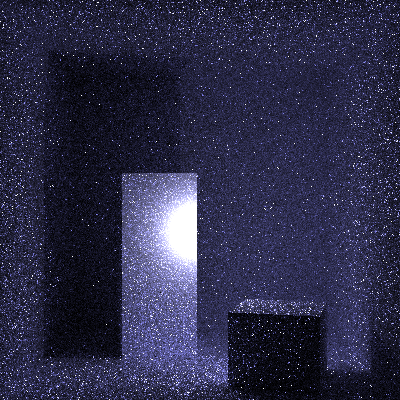
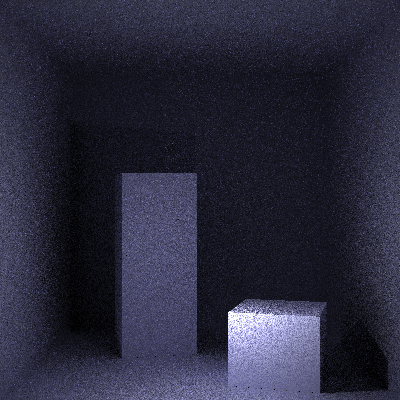
fix path tracing & diffuse brdf conserves energy

diff --git a/src/engine/integrator.rs b/src/engine/integrator.rs
@@ -55,118 +55,170 @@ pub struct PathTracerIntegrator {
     pub number_samples: u32
 }
 
-fn shade_path(path: &Path, scene: &Scene, max_bounces: u32) -> Color3 {
-    if path.intersections.is_empty() { return Color3::zero() }
+///returns true if the path will be completely dark using unidirectional path tracing
+fn unidirectional_path_has_no_light(path: &Path, scene: &Scene) -> bool {
+    if path.intersections.is_empty() || path.light_sample.is_none() { return true }
+    let last_intersection: &PathIntersection = path.intersections.last().as_ref().unwrap();
+    let light_sample: &LightSample = path.light_sample.as_ref().unwrap();
+    let light_intersected = scene
+        .intersect_for_obstruction(last_intersection.position, light_sample.position)
+        .intersected();
+    light_intersected
+}
 
-    let light_sample = &path.light_sample;
+fn shade_path(path: &Path, scene: &Scene, max_bounces: u32) -> Color3 {
+    if unidirectional_path_has_no_light(path, scene) { return Color3::zero() }
+
     let mut accumulated_light = Color3::new(1., 1., 1.);
-    let mut sum_of_samples = Color3::zero();
+    let light_sample: &LightSample = path.light_sample.as_ref().unwrap();
 
     let mut previous_position = path.start_position;
     for i_intersection in 0..path.intersections.len() {
-        let intersection = &path.intersections[i_intersection];
-        let outgoing_direction = (previous_position - intersection.position).unit();
+        let intersection: &PathIntersection = &path.intersections[i_intersection];
+        let next_position: &Vec3 = if i_intersection == path.intersections.len() - 1 {
+            &light_sample.position
+        } else {
+            &path.intersections[i_intersection + 1].position
+        };
 
-        //branch that samples from the light
-        if let &Some(ref light) = light_sample {
-            let light_intersection = scene.intersect_for_obstruction(
-                intersection.position,
-                light.position);
-            if !light_intersection.intersected() {
-                let light_vector = light.position - intersection.position;
-                let light_distance = light_vector.magnitude();
-                let incoming_direction = light_vector.unit();
-                let incoming_intensity = light.intensity / light_distance.powi(2);
-                let brdf_cos_term = intersection.shader.brdf_cosine_term(
-                    &intersection.normal.unit(), &outgoing_direction, &incoming_direction);
-                let probability_of_incoming_direction_inverse = 1.0 /
-                    intersection.shader.probability_of_sample(
-                        &intersection.normal.unit(), &incoming_direction, &outgoing_direction);
-                sum_of_samples += accumulated_light
-                    .mul_element_wise(brdf_cos_term)
-                    .mul_element_wise(incoming_intensity) / light.sample_probability *
-                    probability_of_incoming_direction_inverse;
-            }
-        }
+        let light_directions = LightDirectionPair {
+            outgoing: &(previous_position - intersection.position).unit(),
+            incoming: &(next_position - intersection.position).unit()
+        };
 
-        //if there is another after this one, acculumate the color for this intersection
-        if let Some(next_intersection) = path.intersections.get(i_intersection + 1) {
-            let incoming_vector = next_intersection.position - intersection.position;
-            let incoming_direction = incoming_vector.unit();
-            let brdf_cos_term = intersection.shader.brdf_cosine_term(
-                &intersection.normal.unit(), &outgoing_direction, &incoming_direction);
+        let brdf_cos_term = intersection.shader.brdf_cosine_term(
+            &intersection.normal.unit(), &light_directions
+        );
 
-            let probability_of_incoming_direction_inverse = 1.0 /
-                intersection.shader.probability_of_sample(
-                    &intersection.normal.unit(), &incoming_direction, &outgoing_direction);
+        let probability_of_incoming_sample = intersection.shader.probability_of_sample(
+            &intersection.normal.unit(), &light_directions
+        );
 
-            let attenuation = 1.; // incoming_vector.magnitude().powi(2);
-            accumulated_light.mul_assign_element_wise(
-                brdf_cos_term.mul_element_wise(attenuation) *
-                    probability_of_incoming_direction_inverse
-            );
-        }
+        accumulated_light.mul_assign_element_wise(
+            brdf_cos_term / probability_of_incoming_sample
+        );
 
         previous_position = intersection.position;
     }
+    
+    //finally, multiply by light sample
+    let light_distance = (light_sample.position - previous_position).magnitude();
+    let light_intensity = light_sample.intensity;
 
-    //consider changing to max_bounces
-    //sum_of_samples / path.intersections.len() as f32
-    let num_ray_samples = max_bounces as f32 + 1.;
-    sum_of_samples / num_ray_samples as f32
+    accumulated_light.mul_element_wise(light_intensity) / light_distance.powi(2)
 }
+
+//fn _shade_path(path: &Path, scene: &Scene, max_bounces: u32) -> Color3 {
+//    if path.intersections.is_empty() { return Color3::zero() }
+//
+//    let light_sample = &path.light_sample;
+//    let mut accumulated_light = Color3::new(1., 1., 1.);
+//
+//    let mut previous_position = path.start_position;
+//    for i_intersection in 0..path.intersections.len() {
+//        let intersection = &path.intersections[i_intersection];
+//        let outgoing_direction = (previous_position - intersection.position).unit();
+//
+//        //if there is another after this one, acculumate the color for this intersection
+//        if let Some(next_intersection) = path.intersections.get(i_intersection + 1) {
+//            let incoming_vector = next_intersection.position - intersection.position;
+//            let incoming_direction = incoming_vector.unit();
+//            let brdf_cos_term = intersection.shader.brdf_cosine_term(
+//                &intersection.normal.unit(), &outgoing_direction, &incoming_direction);
+//
+//            let probability_of_incoming_direction_inverse = 1.0 /
+//                intersection.shader.probability_of_sample(
+//                    &intersection.normal.unit(), &incoming_direction, &outgoing_direction);
+//
+//            let attenuation = 1.; // incoming_vector.magnitude().powi(2);
+//            accumulated_light.mul_assign_element_wise(
+//                brdf_cos_term.mul_element_wise(attenuation) *
+//                    probability_of_incoming_direction_inverse
+//            );
+//        } else if let &Some(ref light) = light_sample {
+//            let light_intersection = scene.intersect_for_obstruction(
+//                intersection.position,
+//                light.position);
+//            if !light_intersection.intersected() {
+//                let light_vector = light.position - intersection.position;
+//                let light_distance = light_vector.magnitude();
+//                let incoming_direction = light_vector.unit();
+//                let incoming_intensity = light.intensity / light_distance.powi(2);
+//                let brdf_cos_term = intersection.shader.brdf_cosine_term(
+//                    &intersection.normal.unit(), &outgoing_direction, &incoming_direction);
+//                let probability_of_incoming_direction_inverse = 1.0 /
+//                    intersection.shader.probability_of_sample(
+//                        &intersection.normal.unit(), &incoming_direction, &outgoing_direction);
+//                accumulated_light = accumulated_light
+//                    .mul_element_wise(brdf_cos_term)
+//                    .mul_element_wise(incoming_intensity) / light.sample_probability *
+//                    probability_of_incoming_direction_inverse;
+//                return accumulated_light
+//            }
+//        }
+//
+//        previous_position = intersection.position;
+//    }
+//
+//    Color3::zero()
+//
+//    //consider changing to max_bounces
+//    //sum_of_samples / path.intersections.len() as f32
+//    //let num_ray_samples = max_bounces as f32 + 1.;
+//    //sum_of_samples / num_ray_samples as f32
+//}
 
 //TODO for bdpt path shading
 fn shade_path_interconnected(path: &Path) {
 }
 
-impl PathTracerIntegrator {
-    ///traces a path with the last ray being linked to a random light
-    ///An unobstructed path exists between the camera and the last intersection
-    ///in Path.intersections. It is not guaranteed that a ray from last intersection
-    ///to the light sample is unobstructed
-    fn compute_path(&self, ray: &RayUnit, scene: &Scene) -> Path {
-        let mut path = Path {
-            start_position: ray.position,
-            intersections: Vec::new(),
-            light_sample: None
+///traces a path with the last ray being linked to a random light
+///An unobstructed path exists between the camera and the last intersection
+///in Path.intersections. It is not guaranteed that a ray from last intersection
+///to the light sample is unobstructed
+///Max bounces is >= 0
+fn compute_path(ray: &RayUnit, scene: &Scene, max_bounces: u32) -> Path {
+    let mut path = Path {
+        start_position: ray.position,
+        intersections: Vec::new(),
+        light_sample: None
+    };
+
+    let mut current_ray = ray.clone();
+    for _ in 0..(max_bounces + 1) {
+        let record = scene.intersect(&current_ray);
+        if !record.intersected() {
+            break;
+        }
+
+        let shader = record.shader.clone()
+            .unwrap_or(Rc::new(default_shader()));
+        let intersection = PathIntersection {
+            shader: shader.clone(),
+            position: record.position,
+            normal: record.normal
         };
 
-        let mut current_ray = ray.clone();
-        for _ in 0..(self.max_bounces + 1) {
-            let record = scene.intersect(&current_ray);
-            if !record.intersected() {
-                break;
-            }
+        path.intersections.push(intersection);
 
-            let shader = record.shader.clone()
-                .unwrap_or(Rc::new(default_shader()));
-            let intersection = PathIntersection {
-                shader: shader.clone(),
-                position: record.position,
-                normal: record.normal
-            };
-
-            path.intersections.push(intersection);
-
-            let new_direction = shader.sample_bounce(&record.normal.unit(),
-                                                     &current_ray.direction.neg());
-            current_ray = RayBase::new_epsilon_offset(record.position, new_direction);
-        }
-
-        //if there are intersections, connect path to a light
-        if !path.intersections.is_empty() {
-            path.light_sample = sample_light(scene);
-        }
-
-        path
+        let new_direction = shader.sample_bounce(&record.normal.unit(),
+                                                 &current_ray.direction.neg());
+        current_ray = RayBase::new_epsilon_offset(record.position, new_direction);
     }
+
+    //if there are intersections, connect path to a light
+    if !path.intersections.is_empty() {
+        path.light_sample = sample_light(scene);
+    }
+
+    path
 }
 
 impl Integrator for PathTracerIntegrator {
     fn shade_ray(&self, ray: &RayUnit, scene: &Scene) -> Color3 {
-        let path = self.compute_path(ray, scene);
-        let color = shade_path(&path, scene, self.max_bounces);
+        let max_bounces = rand::random::<u32>() % self.max_bounces;
+        let path = compute_path(ray, scene, max_bounces);
+        let color = shade_path(&path, scene, max_bounces);
         color
     }
 

diff --git a/src/engine/shader.rs b/src/engine/shader.rs
@@ -6,6 +6,7 @@ use super::probability::*;
 use std::fmt::{Debug, Formatter};
 use std::fmt;
 use std::f32;
+use std::f32::consts::PI;
 
 pub fn default_shader() -> DiffuseShader {
     DiffuseShader {
@@ -13,16 +14,19 @@ pub fn default_shader() -> DiffuseShader {
     }
 }
 
+pub struct LightDirectionPair<'a> {
+    pub incoming: &'a UnitVec3,
+    pub outgoing: &'a UnitVec3
+}
+
 pub trait Shader {
     fn shade(&self, record: &IntersectionRecord, scene: &Scene) -> Color3;
     fn sample_bounce(&self, normal: &UnitVec3, outgoing_light_direction: &UnitVec3) -> UnitVec3;
     fn probability_of_sample(&self, normal: &UnitVec3,
-                             incoming_light_direction: &UnitVec3,
-                             outgoing_light_direction: &UnitVec3) -> f32;
+                             light_directions: &LightDirectionPair) -> f32;
 
     fn brdf_cosine_term(
-        &self, normal: &UnitVec3, outgoing_light_direction: &UnitVec3,
-        incoming_light_direction: &UnitVec3
+        &self, normal: &UnitVec3, light_directions: &LightDirectionPair
     ) -> Color3;
 }
 
@@ -44,6 +48,7 @@ impl DiffuseShader {
     }
 }
 
+
 impl Shader for DiffuseShader {
     fn sample_bounce(&self, normal: &UnitVec3, outgoing_light_direction: &UnitVec3) -> UnitVec3 {
         let sample = CosineHemisphereWarper::sample();
@@ -51,9 +56,8 @@ impl Shader for DiffuseShader {
     }
 
     fn probability_of_sample(&self, normal: &UnitVec3,
-                             incoming_light_direction: &UnitVec3,
-                             outgoing_light_direction: &UnitVec3) -> f32 {
-        let sample = transform_from(normal, incoming_light_direction.value());
+                             light_directions: &LightDirectionPair) -> f32 {
+        let sample = transform_from(normal, light_directions.incoming.value());
         CosineHemisphereWarper::pdf(sample.value())
     }
 
@@ -71,11 +75,10 @@ impl Shader for DiffuseShader {
     }
 
     fn brdf_cosine_term(
-        &self, normal: &UnitVec3, outgoing_light_direction: &UnitVec3,
-        incoming_light_direction: &UnitVec3
+        &self, normal: &UnitVec3, light_directions: &LightDirectionPair
     ) -> Color3 {
-        let brdf = self.color;
-        let cosine_term = normal.value().dot(*incoming_light_direction.value());
+        let brdf = self.color / PI;
+        let cosine_term = normal.value().dot(*light_directions.incoming.value()); //TODO figure out situation with Into
         brdf * cosine_term
     }
 }

diff --git a/src/engine/renderer.rs b/src/engine/renderer.rs
@@ -65,7 +65,7 @@ impl Config {
     pub fn render_point(&self, u: f32, v: f32) -> Color3 {
         //let ray = self.scene.camera.shoot_ray(u,v);
         let integrator = PathTracerIntegrator {
-            max_bounces: 4,
+            max_bounces: 8,
             number_samples: 8 
         };
         integrator.shade_camera_point(&self.scene, u, v)
